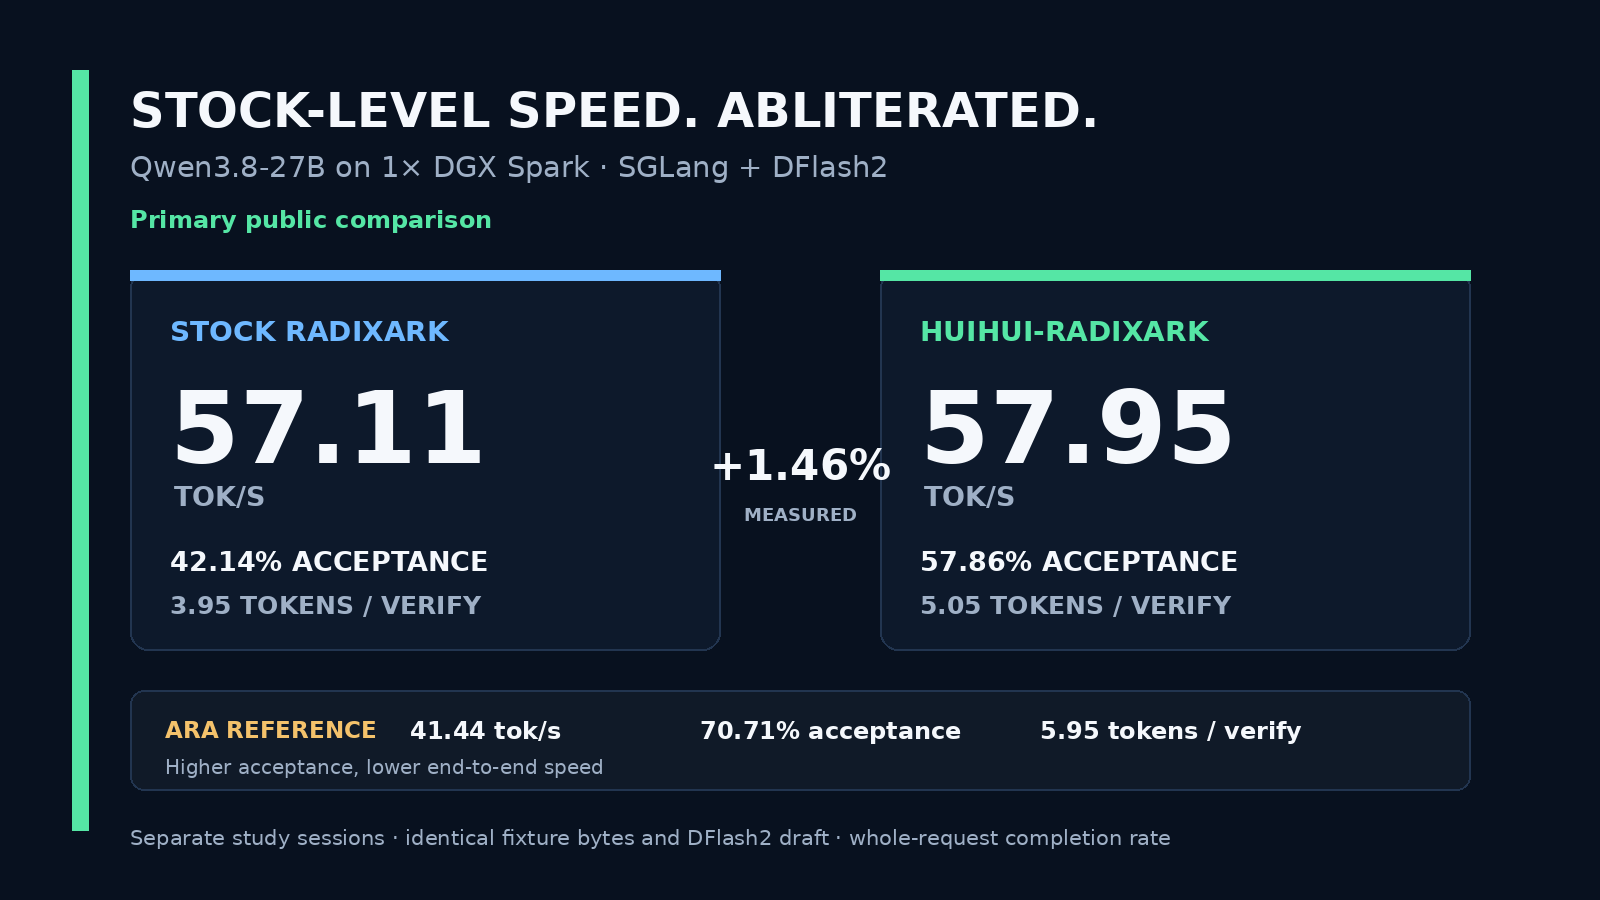
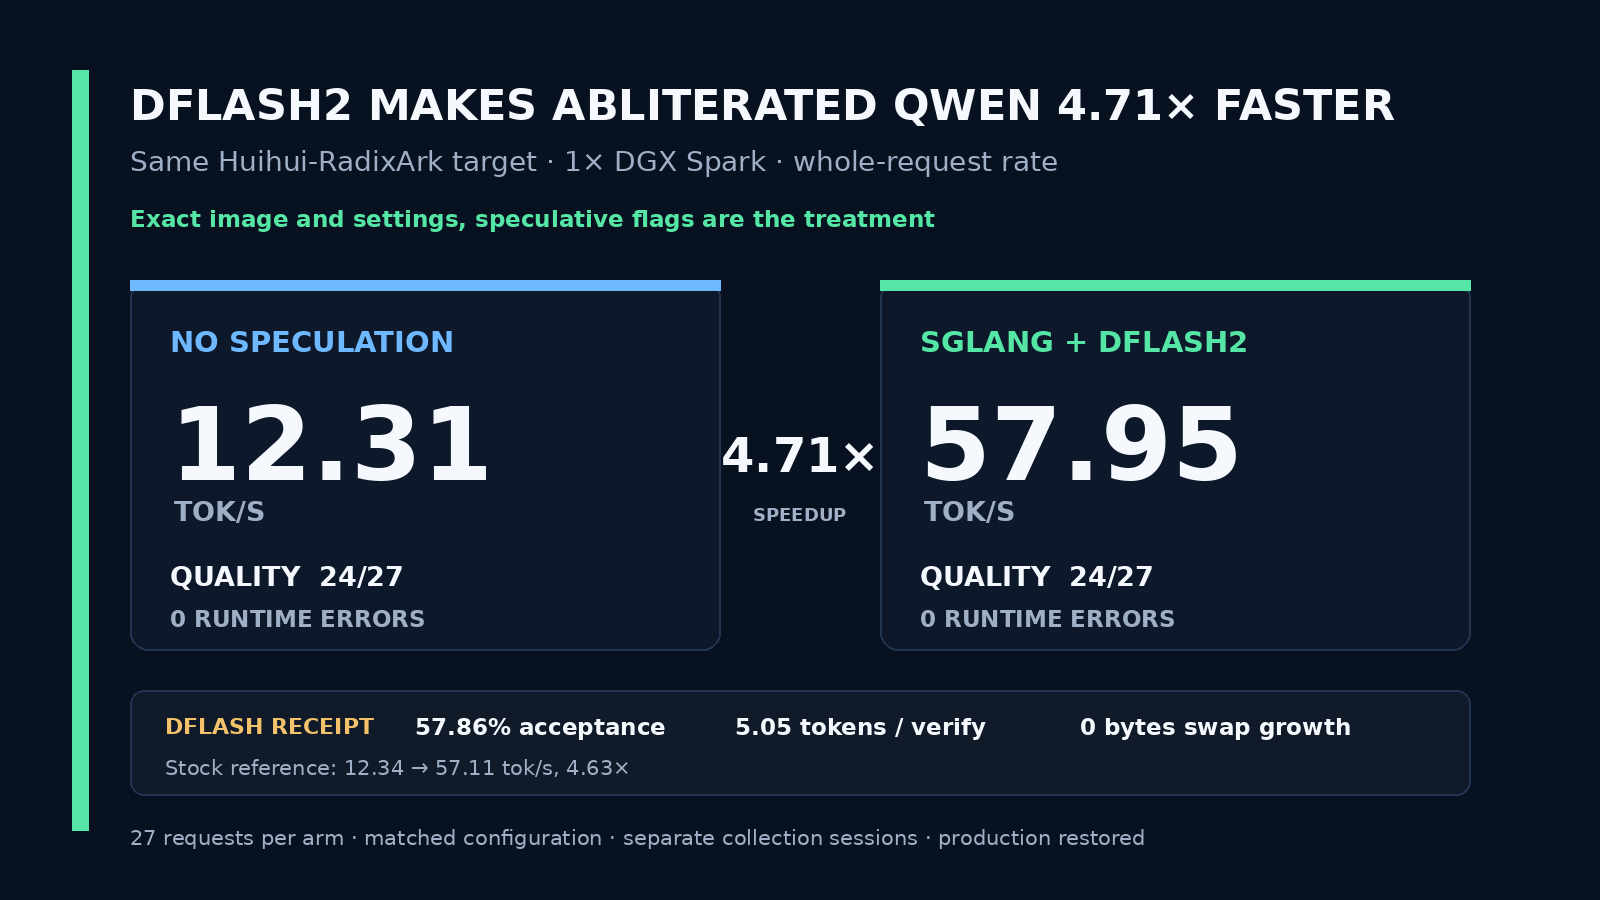
Measure Huihui without speculative decoding

diff --git a/scripts/render_card.py b/scripts/render_card.py
@@ -5,10 +5,9 @@ from PIL import Image, ImageDraw, ImageFont
 
 ROOT = Path(__file__).resolve().parents[1]
 data = json.loads((ROOT / "evidence/cross-study-comparison.json").read_text())
-stock = data["systems"]["stock_radixark"]
 huihui = data["systems"]["huihui_radixark"]
-ara = data["systems"]["aday_ara"]
-delta = data["derived"]["huihui_vs_stock_rate_percent"]
+no_spec = huihui["no_spec_followup"]
+stock = data["systems"]["stock_radixark"]
 
 W, H = 1600, 900
 BG = "#08111f"
@@ -33,36 +32,50 @@ def text(x, y, value, size, color=WHITE, bold=False, anchor=None):
     d.text((x, y), value, font=font(size, bold), fill=color, anchor=anchor)
 
 
-def metric_panel(x1, x2, label, system, accent):
-    d.rounded_rectangle((x1, 270, x2, 650), radius=18, fill=PANEL, outline=BORDER, width=2)
-    d.rectangle((x1, 270, x2, 280), fill=accent)
-    text(x1 + 40, 315, label, 28, accent, True)
-    text(x1 + 40, 370, f'{system["median_whole_request_tokens_per_second"]:.2f}', 100, WHITE, True)
-    text(x1 + 44, 480, "TOK/S", 27, MUTED, True)
-    text(x1 + 40, 545, f'{system["spec_accept_rate"] * 100:.2f}% ACCEPTANCE', 27, WHITE, True)
-    text(x1 + 40, 590, f'{system["spec_accept_length_including_bonus"]:.2f} TOKENS / VERIFY', 25, MUTED, True)
+def metric_panel(x1, x2, label, rate, quality, accent):
+    d.rounded_rectangle((x1, 280, x2, 650), radius=18, fill=PANEL, outline=BORDER, width=2)
+    d.rectangle((x1, 280, x2, 290), fill=accent)
+    text(x1 + 40, 325, label, 29, accent, True)
+    text(x1 + 40, 385, f"{rate:.2f}", 102, WHITE, True)
+    text(x1 + 44, 495, "TOK/S", 27, MUTED, True)
+    text(x1 + 40, 560, f"QUALITY  {quality}/27", 27, WHITE, True)
+    text(x1 + 40, 605, "0 RUNTIME ERRORS", 23, MUTED, True)
 
 
 d.rectangle((72, 70, 88, 830), fill=GREEN)
-text(130, 82, "STOCK-LEVEL SPEED. ABLITERATED.", 48, WHITE, True)
-text(130, 150, "Qwen3.8-27B on 1× DGX Spark · SGLang + DFlash2", 29, MUTED)
-text(130, 205, "Primary public comparison", 24, GREEN, True)
+text(130, 80, "DFLASH2 MAKES ABLITERATED QWEN 4.71× FASTER", 43, WHITE, True)
+text(130, 145, "Same Huihui-RadixArk target · 1× DGX Spark · whole-request rate", 28, MUTED)
+text(130, 205, "Exact image and settings, speculative flags are the treatment", 23, GREEN, True)
 
-metric_panel(130, 720, "STOCK RADIXARK", stock, BLUE)
-metric_panel(880, 1470, "HUIHUI-RADIXARK", huihui, GREEN)
+metric_panel(
+    130,
+    720,
+    "NO SPECULATION",
+    no_spec["median_whole_request_tokens_per_second"],
+    no_spec["quality_passes"],
+    BLUE,
+)
+metric_panel(
+    880,
+    1470,
+    "SGLANG + DFLASH2",
+    huihui["median_whole_request_tokens_per_second"],
+    huihui["quality_passes"],
+    GREEN,
+)
 
-text(800, 465, f"+{delta:.2f}%", 42, WHITE, True, "mm")
-text(800, 515, "MEASURED", 18, MUTED, True, "mm")
+text(800, 455, f'{no_spec["dflash2_speedup_ratio"]:.2f}×', 48, WHITE, True, "mm")
+text(800, 515, "SPEEDUP", 18, MUTED, True, "mm")
 
-# Secondary ARA reference strip.
-d.rounded_rectangle((130, 690, 1470, 790), radius=14, fill="#101a28", outline=BORDER, width=2)
-text(165, 716, "ARA REFERENCE", 23, AMBER, True)
-text(410, 716, f'{ara["median_whole_request_tokens_per_second"]:.2f} tok/s', 24, WHITE, True)
-text(700, 716, f'{ara["spec_accept_rate"] * 100:.2f}% acceptance', 24, WHITE, True)
-text(1040, 716, f'{ara["spec_accept_length_including_bonus"]:.2f} tokens / verify', 24, WHITE, True)
-text(165, 755, "Higher acceptance, lower end-to-end speed", 20, MUTED)
+# Compact receipts.
+d.rounded_rectangle((130, 690, 1470, 795), radius=14, fill="#101a28", outline=BORDER, width=2)
+text(165, 713, "DFLASH RECEIPT", 22, AMBER, True)
+text(415, 713, f'{huihui["spec_accept_rate"] * 100:.2f}% acceptance', 23, WHITE, True)
+text(735, 713, f'{huihui["spec_accept_length_including_bonus"]:.2f} tokens / verify', 23, WHITE, True)
+text(1080, 713, "0 bytes swap growth", 23, WHITE, True)
+text(165, 755, f'Stock reference: 12.34 → {stock["median_whole_request_tokens_per_second"]:.2f} tok/s, 4.63×', 21, MUTED)
 
-text(130, 825, "Separate study sessions · identical fixture bytes and DFlash2 draft · whole-request completion rate", 21, MUTED)
+text(130, 825, "27 requests per arm · matched configuration · separate collection sessions · production restored", 21, MUTED)
 
 out = ROOT / "assets/qwen38-huihui-radixark-result.png"
 out.parent.mkdir(exist_ok=True)

diff --git a/README.md b/README.md
@@ -6,34 +6,44 @@ The candidate quantizes the `lm_head` and all 192 language-model MLP projections
 
 ## Status
 
-**Qualified and deployed.** The formal promotion gate used the exact-image Aday control and passed every frozen requirement. For the public speed comparison, the primary baseline is the measured stock RadixArk checkpoint, not Aday ARA.
+**Qualified and deployed.** A matched-configuration no-spec follow-up now isolates the DFlash2 effect on the same Huihui-RadixArk target.
 
 ![Measured result](assets/qwen38-huihui-radixark-result.png)
 
-| DFlash2 target | Median whole-request rate | Draft acceptance | Mean committed tokens per verification | Frozen automatic quality |
-|---|---:|---:|---:|---:|
-| Stock RadixArk | 57.11 tok/s | 42.14% | 3.95 | 24/27 |
-| **Huihui-RadixArk abliterated** | **57.95 tok/s** | **57.86%** | **5.05** | **24/27** |
-| Aday ARA abliterated, secondary reference | 41.44 tok/s | 70.71% | 5.95 | 23/27 |
+| Huihui-RadixArk mode | Median whole-request rate | Frozen automatic quality | Runtime errors |
+|---|---:|---:|---:|
+| No speculation | 12.31 tok/s | 24/27 | 0/27 |
+| **SGLang + DFlash2** | **57.95 tok/s** | **24/27** | **0/27** |
 
-Huihui measured **1.46% above stock**, which is best described as **stock-level speed** because the runs came from separate study sessions and used different final image IDs. The **1.40×** figure applies only to Huihui versus the Aday ARA control.
+**Measured DFlash2 acceleration: 4.71×.** The no-spec follow-up used the exact qualified image, target, fixture bytes, sampler, and server settings with only the speculative-decoding flags removed. The no-spec and DFlash2 arms were collected in separate sessions, so this is a matched-configuration historical-session comparison rather than a same-session paired estimate.
+
+### External references
+
+| Target | No speculation | SGLang + DFlash2 | DFlash2 ratio |
+|---|---:|---:|---:|
+| Stock RadixArk | 12.34 tok/s | 57.11 tok/s | 4.63× |
+| **Huihui-RadixArk abliterated** | **12.31 tok/s** | **57.95 tok/s** | **4.71×** |
+| Aday ARA abliterated | 12.33 tok/s | 41.44 tok/s | 3.36× |
+
+Stock remains the primary external speed reference. Huihui's 57.95 tok/s is effectively stock-level performance, measuring 1.46% above stock across separate studies. Aday remains the exact-image frozen promotion control and a secondary operational reference.
 
 ### Is 57.86% acceptance bad?
 
 No. SGLang defines acceptance rate as accepted draft tokens divided by proposed draft tokens, excluding the target model's bonus token. With eight configured DFlash tokens, seven are draft proposals. Huihui accepted an average of **4.05 of those seven drafts**, then committed the target bonus token, for **5.05 output tokens per verification step**.
 
-Acceptance is an efficiency diagnostic, not a quality score or a request-success rate. Huihui's **57.86%** is 15.71 percentage points above stock's **42.14%**, while its whole-request throughput is effectively tied with stock. Aday ARA reached a higher **70.71%** acceptance rate but only **41.44 tok/s**, showing why acceptance cannot be interpreted alone. End-to-end speed also depends on target-model execution cost, draft overhead, response trajectories, kernels, and memory behavior.
+Acceptance is an efficiency diagnostic, not a quality score or a request-success rate. Huihui's **57.86%** is 15.71 percentage points above stock's **42.14%**. Aday reached a higher **70.71%** acceptance rate but only **41.44 tok/s**, showing why acceptance cannot be interpreted alone. End-to-end speed also depends on target-model execution cost, draft overhead, response trajectories, kernels, and memory behavior.
 
-Operational evidence for Huihui:
+Operational evidence for the no-spec follow-up:
 
+- Complete requests: **27/27**
+- Frozen automatic quality: **24/27**, matching DFlash2
 - Runtime errors: **0/27**
-- Exact response-model identity: **27/27**
-- Normalized payload matches against the formal Aday control: **27/27**
-- Measured DFlash verification-call delta: **1,310**
-- Minimum host `MemAvailable`: **27.76 GiB**
+- Speculative flags present: **false**
+- Minimum host `MemAvailable`: **31,633,780,736 bytes**
 - Swap growth: **0 bytes**
+- Production DFlash2 service restored and generation-tested
 
-The exact post-hoc stock, Huihui, and Aday values and source-summary hashes are in [`evidence/cross-study-comparison.json`](evidence/cross-study-comparison.json). Stock and Huihui used identical fixture bytes, sampler settings, DFlash2 draft revision, SGLang base commit, base image digest, and overlay file hashes. Their final image IDs and collection sessions differ, so the stock comparison is a public reference rather than the preregistered promotion control.
+The no-spec receipt is [`evidence/huihui-nospec-study.json`](evidence/huihui-nospec-study.json). The exact post-hoc stock, Huihui, and Aday values and source-summary hashes are in [`evidence/cross-study-comparison.json`](evidence/cross-study-comparison.json).
 
 The formal control remains the completed, output-redacted Aday DFlash2 arm from [`sxuff/qwen38-27b-abliterated-nvfp4-dflash2-dgx-spark`](https://github.com/sxuff/qwen38-27b-abliterated-nvfp4-dflash2-dgx-spark), pinned in [`controls/aday-dflash2-control.json`](controls/aday-dflash2-control.json). It preserves the original promotion decision without making Aday the headline baseline.
 
